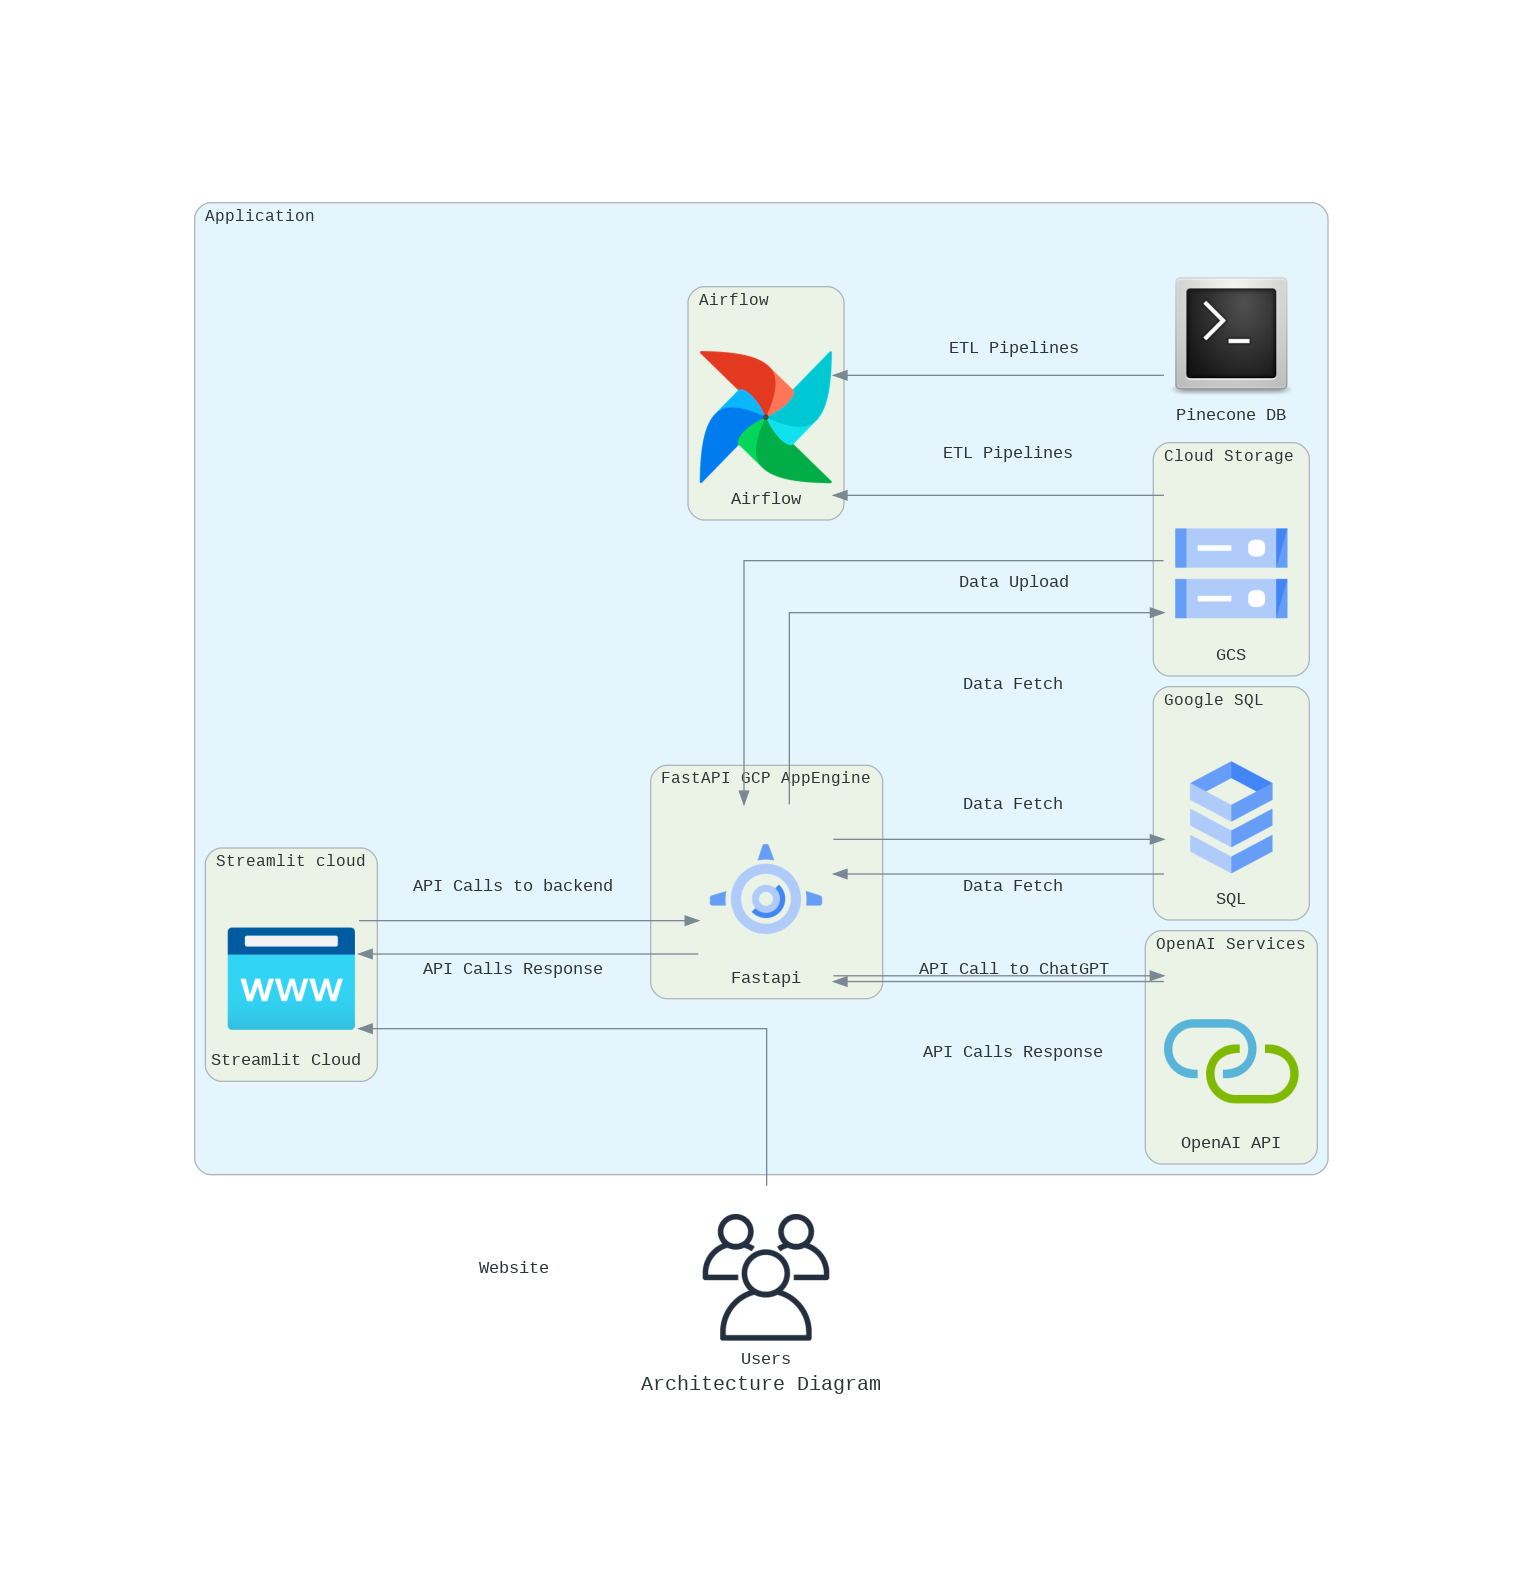
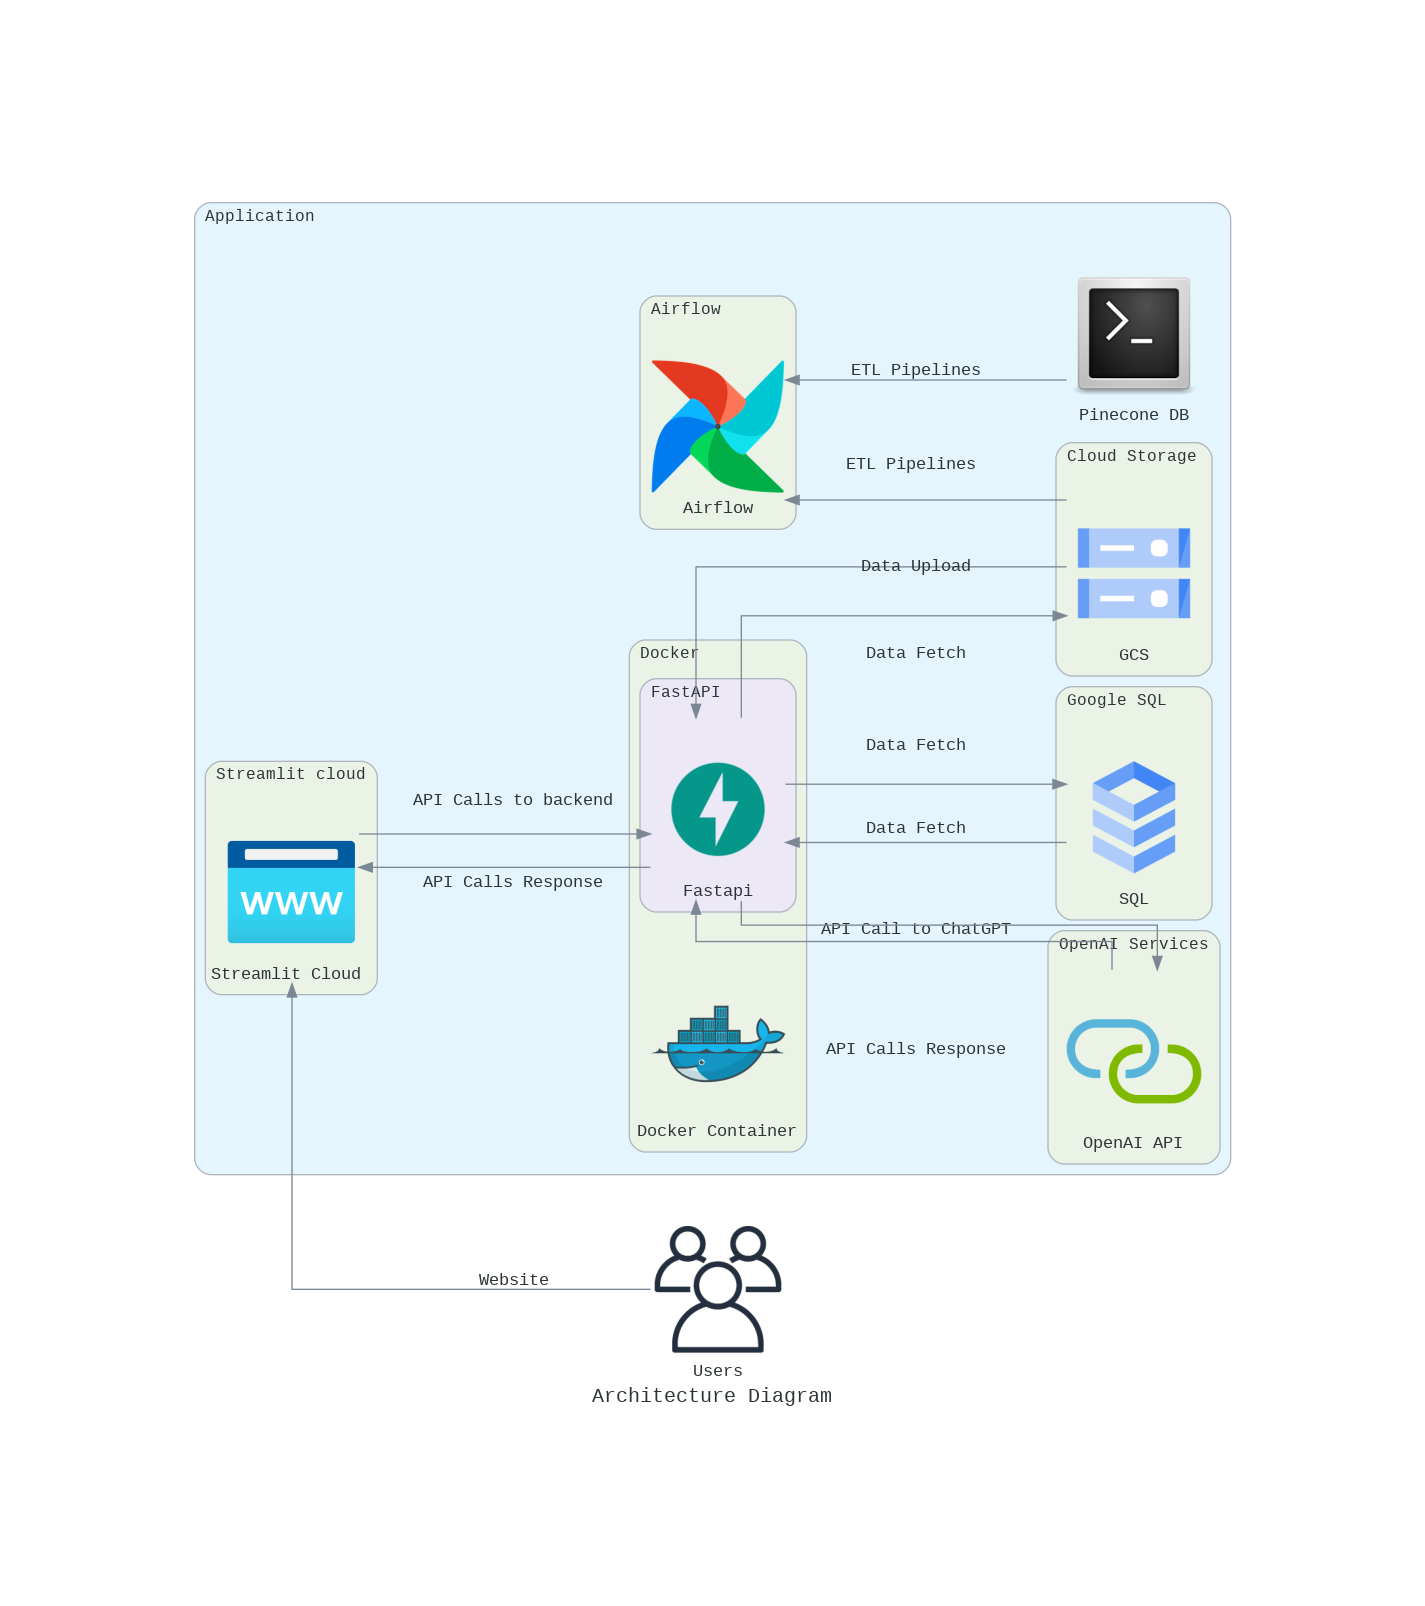
Updated architecture

diff --git a/Architecture Diagram/architecture.py b/Architecture Diagram/architecture.py
@@ -16,7 +16,7 @@ from diagrams.programming.framework import Fastapi
 from diagrams.gcp.compute import AppEngine
 from diagrams.programming.language import Bash
 from diagrams.onprem.workflow import Airflow
-
+from diagrams.onprem.container import Docker
 
 
 with Diagram("Architecture Diagram", show=False):
@@ -26,8 +26,10 @@ with Diagram("Architecture Diagram", show=False):
         airflow = Airflow("Airflow")
       with Cluster("Streamlit cloud"):
           streamlit = AppServiceDomains("Streamlit Cloud ")
-      with Cluster("FastAPI GCP AppEngine"):
-          fastapi= AppEngine("Fastapi")
+      with Cluster("Docker"):
+        docker = Docker("Docker Container")
+        with Cluster("FastAPI"):
+            fastapi= Fastapi("Fastapi")
       with Cluster("Google SQL"):
           db = SQL("SQL")
       with Cluster("OpenAI Services"):
@@ -36,8 +38,8 @@ with Diagram("Architecture Diagram", show=False):
           storage = Storage("GCS")
       with Diagram("Pinecone"):
           pineconedb=Bash("Pinecone DB")
-  
-    
+
+
     streamlit << Edge(label="Website") << ingress
     fastapi << Edge(label="Data Fetch") << db
     db << Edge(label="Data Fetch") << fastapi
@@ -45,8 +47,8 @@ with Diagram("Architecture Diagram", show=False):
     storage << Edge(label="Data Fetch") << fastapi
     streamlit << Edge(label="API Calls Response") << fastapi
     fastapi << Edge(label="API Calls to backend") << streamlit
-    fastapi << Edge(label="API Call to ChatGPT") << openai  
-    openai << Edge(label="API Calls Response") << fastapi  
-    pineconedb << Edge(label="Embeddings") << openai 
+    fastapi << Edge(label="API Call to ChatGPT") << openai
+    openai << Edge(label="API Calls Response") << fastapi
+    pineconedb << Edge(label="Embeddings") << openai
     airflow << Edge(label="ETL Pipelines ") << storage
     airflow << Edge(label="ETL Pipelines") << pineconedb
